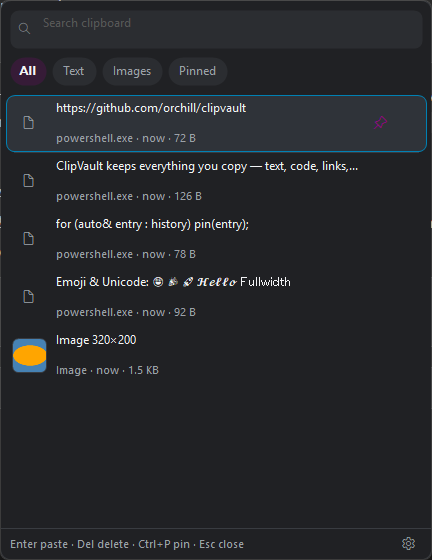
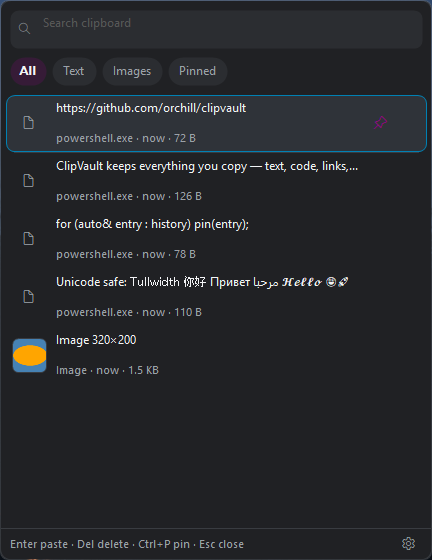
Settings button row: separate groups, Save left of Cancel; multilingual popup screenshot

diff --git a/src/settings_window.cpp b/src/settings_window.cpp
@@ -478,12 +478,15 @@ LRESULT CALLBACK SettingsProc(HWND hwnd, UINT msg, WPARAM wParam, LPARAM lParam)
       endSection();
 
       // ---- action row (bottom anchored) ----
+      // left group: clear buttons; right group: Save then Cancel (Cancel is
+      // always the rightmost). The window's minimum width guarantees a gap
+      // between the two groups at any size.
       y += 8;
       g_contentH = y + 44;
-      AddButton(hwnd, ID_CLEARUNPIN, L"Clear unpinned", kMargin, 44, 122, 32, A_BOTTOM_L);
-      AddButton(hwnd, ID_CLEARALL, L"Clear all", kMargin + 132, 44, 96, 32, A_BOTTOM_L);
-      AddButton(hwnd, ID_CANCEL, L"Cancel", 120, 44, 96, 32, A_BOTTOM_R);
-      AddButton(hwnd, ID_SAVE, L"Save", 16, 44, 96, 32, A_BOTTOM_R);
+      AddButton(hwnd, ID_CLEARUNPIN, L"Clear unpinned", kMargin, 44, 118, 32, A_BOTTOM_L);
+      AddButton(hwnd, ID_CLEARALL, L"Clear all", kMargin + 128, 44, 94, 32, A_BOTTOM_L);
+      AddButton(hwnd, ID_SAVE, L"Save", 116, 44, 90, 32, A_BOTTOM_R);
+      AddButton(hwnd, ID_CANCEL, L"Cancel", 16, 44, 90, 32, A_BOTTOM_R);
 
       RECT wr{0, 0, u.S(kW), u.S(g_contentH)};
       AdjustWindowRectEx(&wr,
